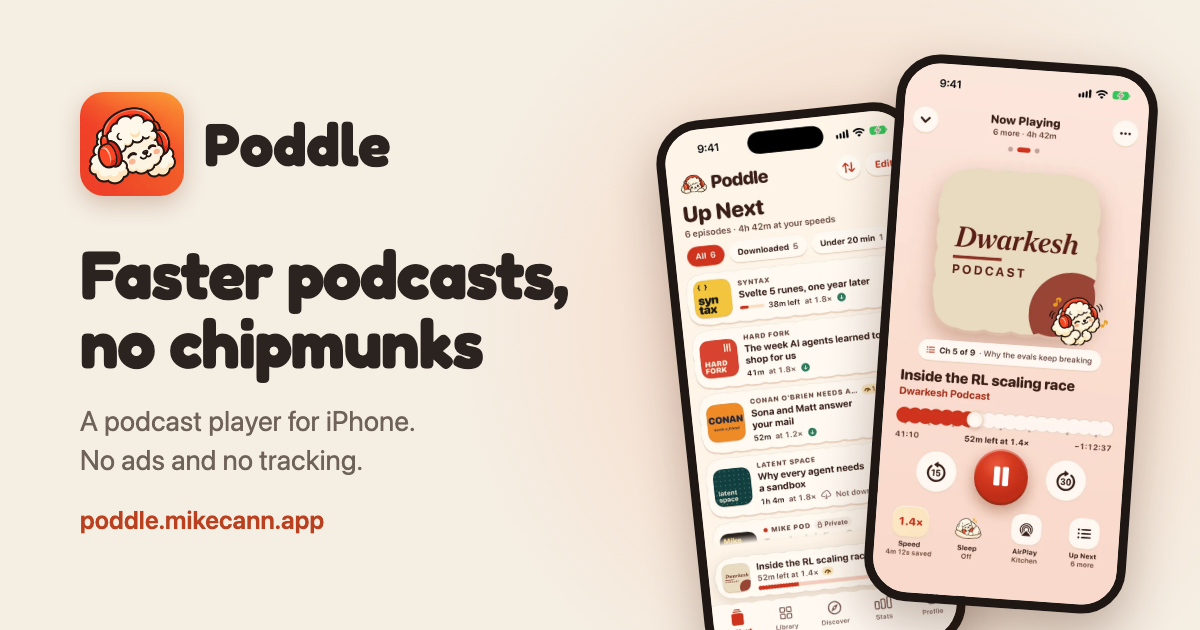
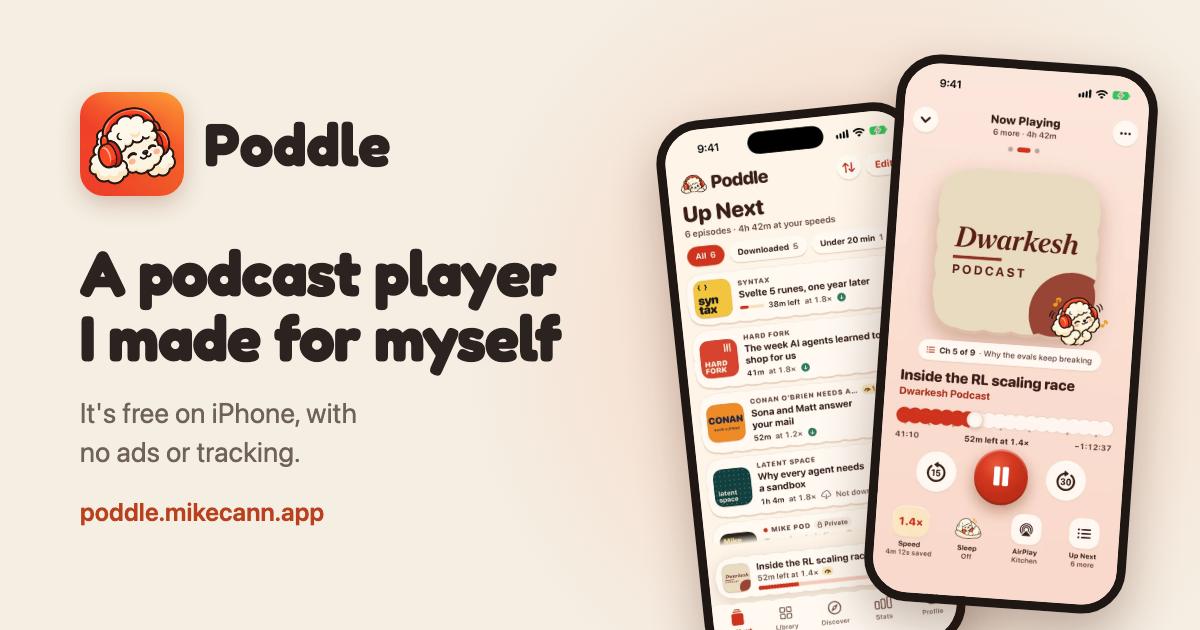
Landing page: rewrite the copy in Mike's voice
Drops the eyebrow label and the "Faster podcasts, no chipmunks" slogan for a
plainer, more personal heading, and loosens the feature copy, meta tags,
footer and link-preview image so they read less like marketing.

Changed region(s): [[0.0617, 0.3921, 0.4933, 0.6032], [0.0617, 0.6333, 0.3392, 0.754], [0.0617, 0.7841, 0.2775, 0.8444]]

diff --git a/web/src/pages/Landing.tsx b/web/src/pages/Landing.tsx
@@ -51,7 +51,7 @@ function StructuredData() {
     "@context": "https://schema.org",
     "@type": "MobileApplication",
     name: "Poddle",
-    description: "A podcast player for iPhone with speed-ups that still sound like people, settings for each show, the full Overcast import and listening stats.",
+    description: "A podcast player for iPhone that Mike Cann made to replace Overcast, with speed-ups that still sound like people talking, settings for each show, the full Overcast import and listening stats.",
     operatingSystem: "iOS 18.0 or later",
     applicationCategory: "MultimediaApplication",
     offers: { "@type": "Offer", price: "0", priceCurrency: "USD" },
@@ -73,11 +73,11 @@ export function Landing({ signedIn, deleted = false }: { signedIn: boolean; dele
         <section className="hero">
           <div className="hero-copy">
             <img className="hero-icon" src="/icon-192.png" alt="" width={76} height={76} />
-            <p className="eyebrow">A podcast player for iPhone</p>
-            <h1>Faster podcasts, no chipmunks</h1>
+            <h1>A podcast player I made for myself</h1>
             <p className="lede">
-              Poddle is a podcast player I made for myself after years of using Overcast. It has one Up Next queue,
-              speed-ups that still sound like people, and stats on how much you actually listen (a lot, in my case).
+              I used Overcast for years and Poddle is what I made to replace it. It's got one Up Next queue, speed-ups
+              that still sound like people talking, settings for each show and stats on how much I actually listen (a
+              lot, it turns out). Hopefully you like it too!
             </p>
             {deleted && (
               <div className="notice" role="status">
@@ -87,7 +87,7 @@ export function Landing({ signedIn, deleted = false }: { signedIn: boolean; dele
             )}
             <div className="hero-cta">
               <AppStoreBadge />
-              <p className="muted">Free, with no ads and no tracking.</p>
+              <p className="muted">It's free, and there's no ads or tracking.</p>
             </div>
             <p className="hero-signin">
               {signedIn ? (
@@ -109,10 +109,10 @@ export function Landing({ signedIn, deleted = false }: { signedIn: boolean; dele
 
           <article className="feature">
             <div className="feature-copy">
-              <h3>Speed without the chipmunks</h3>
+              <h3>Speed-ups without the chipmunks</h3>
               <p>
-                Poddle's Speech-tuned speed-up is made for voices, so 2x still sounds like the person talking. Smart
-                Speed trims the silences between words, and Voice Boost evens out quiet hosts and loud ads.
+                The speed-up in Poddle is tuned for voices, so even at 2x it still sounds like the person talking. Smart
+                Speed trims the little gaps between words too, and Voice Boost evens out quiet hosts and loud ads.
               </p>
             </div>
             <div className="feature-media"><Phone shot={shots.speed} /></div>
@@ -122,8 +122,9 @@ export function Landing({ signedIn, deleted = false }: { signedIn: boolean; dele
             <div className="feature-copy">
               <h3>Settings for each show</h3>
               <p>
-                Every show can have its own speed, Smart Speed, Voice Boost, intro and outro skips, and where its new
-                episodes go. Or leave them on your defaults and forget about it.
+                Every show can have its own speed, Smart Speed and Voice Boost, skip its intros and outros, and choose
+                whether its new episodes go to the top or bottom of Up Next (or don't get added at all). Or you can
+                just leave them all on your defaults and forget about it.
               </p>
             </div>
             <div className="feature-media"><Phone shot={shots.showSettings} /></div>
@@ -131,11 +132,11 @@ export function Landing({ signedIn, deleted = false }: { signedIn: boolean; dele
 
           <article className="feature">
             <div className="feature-copy">
-              <h3>Bring everything from Overcast</h3>
+              <h3>Bring everything over from Overcast</h3>
               <p>
-                Export "All data" from Overcast and Poddle brings over your shows, what you've played, where you're up
-                to, your starred episodes and your whole listening history, so your stats start with everything you've
-                already heard.
+                If you're coming from Overcast like me, export "All data" from your Overcast account and Poddle brings
+                over your shows, what you've played, where you're up to, your starred episodes and your whole
+                listening history. So your stats start with everything you've already heard.
               </p>
             </div>
             <div className="feature-media"><Phone shot={shots.importDone} /></div>
@@ -145,8 +146,8 @@ export function Landing({ signedIn, deleted = false }: { signedIn: boolean; dele
             <div className="feature-copy">
               <h3>Stats, and a Year in Review</h3>
               <p>
-                See how long you've listened, how much time speed and Smart Speed saved you, your top shows and your
-                streaks. At the end of the year there's a Year in Review you can share.
+                You can see how long you've listened, how much time the speed-ups and Smart Speed have saved you, your
+                top shows and your streaks, and then at the end of the year there's a Year in Review you can share.
               </p>
             </div>
             <div className="feature-media pair">
@@ -157,24 +158,25 @@ export function Landing({ signedIn, deleted = false }: { signedIn: boolean; dele
 
           <div className="bits">
             <article className="bit">
-              <h3>Downloads that look after your data</h3>
+              <h3>Wi-Fi only downloads</h3>
               <p>
-                Poddle only downloads on Wi-Fi unless you say otherwise. Out and about and want something now? Allow
-                mobile downloads for an hour, three hours or until tomorrow, and it goes back to Wi-Fi only by itself.
+                Poddle only downloads on Wi-Fi unless you tell it otherwise. If you're out and want something now you
+                can allow mobile downloads for an hour, three hours or until tomorrow, then it goes back to Wi-Fi only
+                by itself.
               </p>
             </article>
             <article className="bit">
               <h3>Share links</h3>
               <p>
-                Share an episode or a show and your friend gets a page that plays it in their browser, from the bit you
-                meant, or opens it in Poddle if they have it.
+                When you share an episode or a show your friend gets a page that plays it right there in their browser,
+                starting from the bit you meant. If they've got Poddle it opens in the app instead.
               </p>
             </article>
             <article className="bit">
-              <h3>No ads and no tracking</h3>
+              <h3>No ads or tracking</h3>
               <p>
-                You sign in with Apple or Google so your library stays in sync, and that's about it. If you ever want
-                out, you can delete your account from the app.
+                You sign in with Apple or Google so your library stays in sync, and if you ever want out you can delete
+                your account from inside the app.
               </p>
             </article>
             <article className="bit poodle">
@@ -182,8 +184,8 @@ export function Landing({ signedIn, deleted = false }: { signedIn: boolean; dele
               <div>
                 <h3>And a poodle</h3>
                 <p>
-                  Poddle sounds like poodle, so there's a fluffy cartoon poodle in headphones who keeps you company round
-                  the app. If it's a bit much you can turn the animation off in Profile.
+                  Poddle sounds a bit like poodle, so of course there's a fluffy cartoon poodle in headphones keeping you
+                  company round the app. If it gets a bit much you can turn the animations off in Profile.
                 </p>
               </div>
             </article>
@@ -207,8 +209,9 @@ export function Landing({ signedIn, deleted = false }: { signedIn: boolean; dele
         <section className="closing" aria-labelledby="closing-title">
           <h2 id="closing-title">Give it a go</h2>
           <p className="lede">
-            Poddle's free on iPhone, and iPad and Mac will come a bit later. If you find a bug or have an idea, give me a
-            shout at <a href={`mailto:${CONTACT_EMAIL}`}>{CONTACT_EMAIL}</a>.
+            Poddle's free on iPhone and hopefully iPad and Mac won't be too far behind. If you find a bug or have an
+            idea for it, drop me an email at <a href={`mailto:${CONTACT_EMAIL}`}>{CONTACT_EMAIL}</a> or tap "Suggest a
+            feature" in the app.
           </p>
           <AppStoreBadge />
         </section>

diff --git a/web/index.html b/web/index.html
@@ -14,20 +14,20 @@
          The home page's title is also HOME_TITLE in src/lib/links.ts. -->
     <!--poddle:meta-->
     <title>Poddle · A podcast player for iPhone</title>
-    <meta name="description" content="A podcast player for iPhone with speed-ups that still sound like people, settings for each show, the full Overcast import and listening stats. Free, with no ads and no tracking.">
+    <meta name="description" content="Poddle is a podcast player for iPhone that Mike Cann made to replace Overcast. It has speed-ups that still sound like people talking, settings for each show, the full Overcast import and listening stats. It's free, with no ads or tracking.">
     <link rel="canonical" href="https://poddle.mikecann.app/">
     <meta property="og:site_name" content="Poddle">
     <meta property="og:type" content="website">
     <meta property="og:url" content="https://poddle.mikecann.app/">
-    <meta property="og:title" content="Poddle: faster podcasts, no chipmunks">
-    <meta property="og:description" content="A podcast player for iPhone with speed-ups that still sound like people, settings for each show and the full Overcast import. No ads and no tracking.">
+    <meta property="og:title" content="Poddle, a podcast player for iPhone">
+    <meta property="og:description" content="A podcast player for iPhone that Mike Cann made to replace Overcast, with speed-ups that still sound like people talking, settings for each show and the full Overcast import. It's free, with no ads or tracking.">
     <meta property="og:image" content="https://poddle.mikecann.app/og-default.png">
     <meta property="og:image:width" content="1200">
     <meta property="og:image:height" content="630">
     <meta property="og:image:alt" content="Poddle, a podcast player for iPhone, with its Up Next and Now Playing screens">
     <meta name="twitter:card" content="summary_large_image">
-    <meta name="twitter:title" content="Poddle: faster podcasts, no chipmunks">
-    <meta name="twitter:description" content="A podcast player for iPhone with speed-ups that still sound like people, settings for each show and the full Overcast import. No ads and no tracking.">
+    <meta name="twitter:title" content="Poddle, a podcast player for iPhone">
+    <meta name="twitter:description" content="A podcast player for iPhone that Mike Cann made to replace Overcast, with speed-ups that still sound like people talking, settings for each show and the full Overcast import. It's free, with no ads or tracking.">
     <meta name="twitter:image" content="https://poddle.mikecann.app/og-default.png">
     <!--/poddle:meta-->
   </head>

diff --git a/web/src/styles.css b/web/src/styles.css
@@ -261,7 +261,6 @@ a.tile:hover b { color: var(--tomato-d); }
 
 /* ---------- the home page (pages/Landing.tsx) ---------- */
 .landing { width: 100%; flex: 1; padding-bottom: 40px; }
-.landing .eyebrow { color: var(--tomato-d); }
 .landing h1, .section-title, .closing h2 { font-family: "Fredoka", var(--round); font-weight: 700; letter-spacing: -.025em; }
 .landing h3 { font: 800 clamp(22px, 3vw, 28px)/1.15 var(--round); letter-spacing: -.015em; color: var(--ink); text-wrap: balance; }
 .landing p { text-wrap: pretty; }

diff --git a/web/src/components/Layout.tsx b/web/src/components/Layout.tsx
@@ -30,7 +30,7 @@ export function SiteHeader({ signedIn }: { signedIn: boolean }) {
 export function SiteFooter() {
   return (
     <footer className="footer">
-      <span>Poddle, a podcast player for iPhone by Mike Cann.</span>
+      <span>Poddle is made by Mike Cann.</span>
       <nav aria-label="About Poddle">
         <Link to="/support">Support</Link>
         <Link to="/privacy">Privacy</Link>
